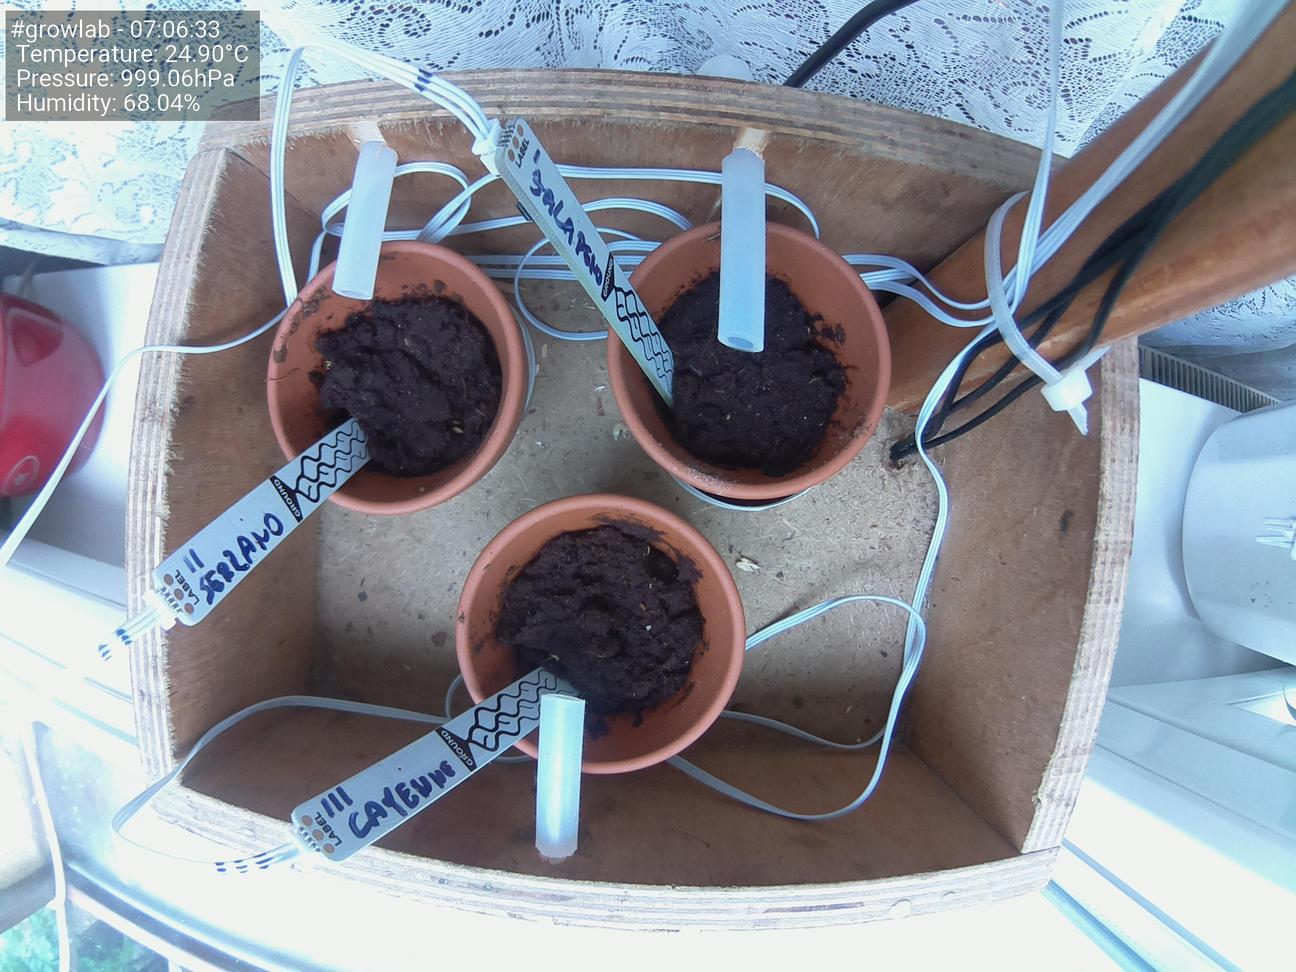
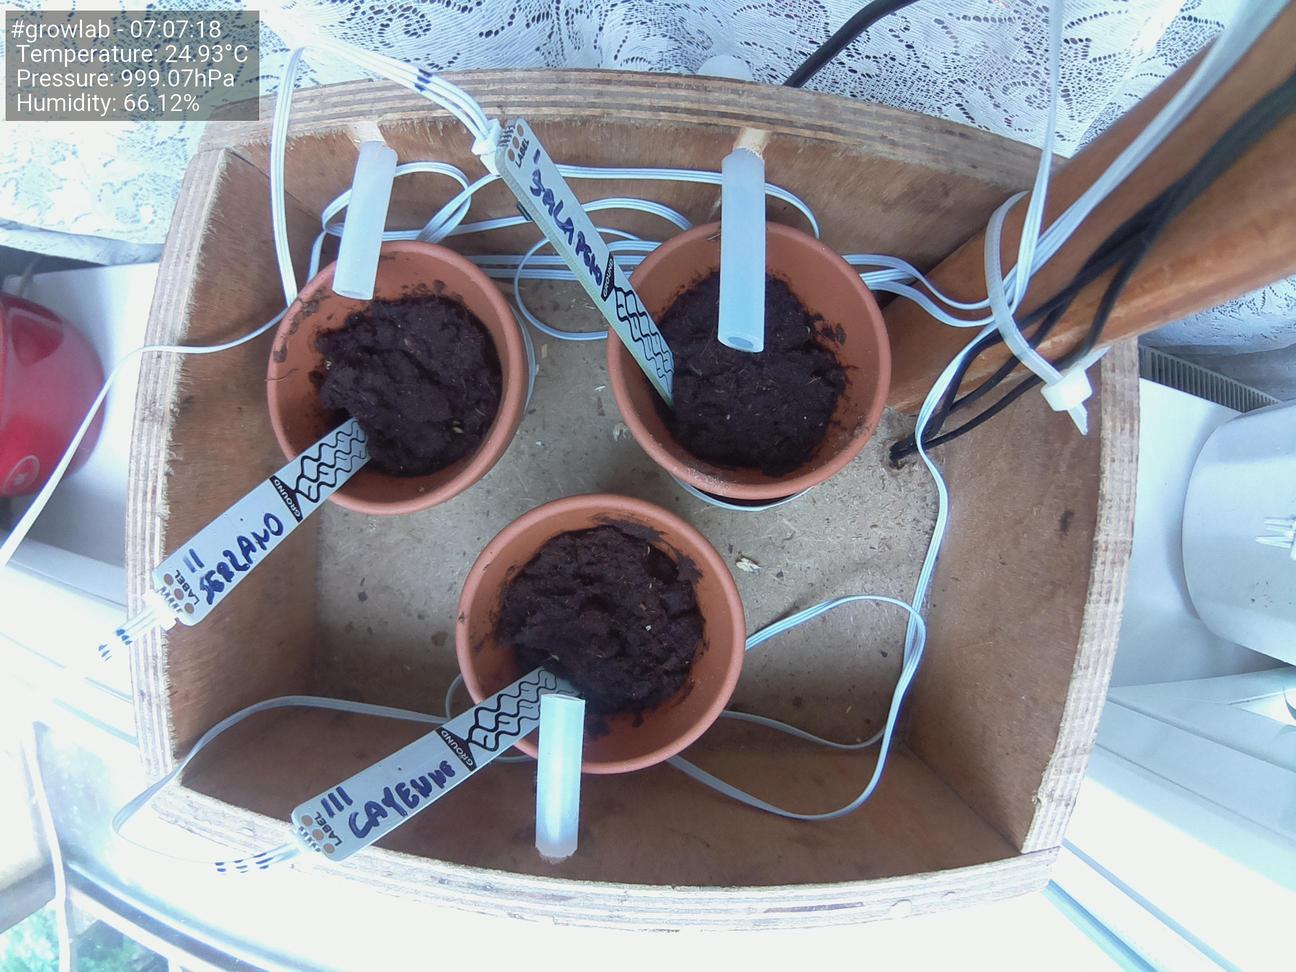
Update images at Thu 15 Jul 07:07:22 BST 2021

diff --git a/docs/index.html b/docs/index.html
@@ -47,19 +47,19 @@
                         <tbody>
                             <tr>
                                 <td>Time</td>
-                                <td>07:06:33</td>
+                                <td>07:07:18</td>
                             </tr>
                             <tr>
                                 <td>Temperature</td>
-                                <td>24.90°C</td>
+                                <td>24.93°C</td>
                             </tr>
                             <tr>
                                 <td>Humidity</td>
-                                <td>68.04%</td>
+                                <td>66.12%</td>
                             </tr>
                             <tr>
                                 <td>Pressure</td>
-                                <td>999.06hPa</td>
+                                <td>999.07hPa</td>
                             </tr>
                         </tbody>
                     </table>
@@ -67,7 +67,7 @@
 
                 <h5>Latest image</h5>
                 <div style="width: 85%;">
-                            <img class="figure-img img-fluid rounded" src="./preview.jpg?uid=1626329197.6356473">
+                            <img class="figure-img img-fluid rounded" src="./preview.jpg?uid=1626329242.1742585">
                 </div>
             </div>
         </div>
